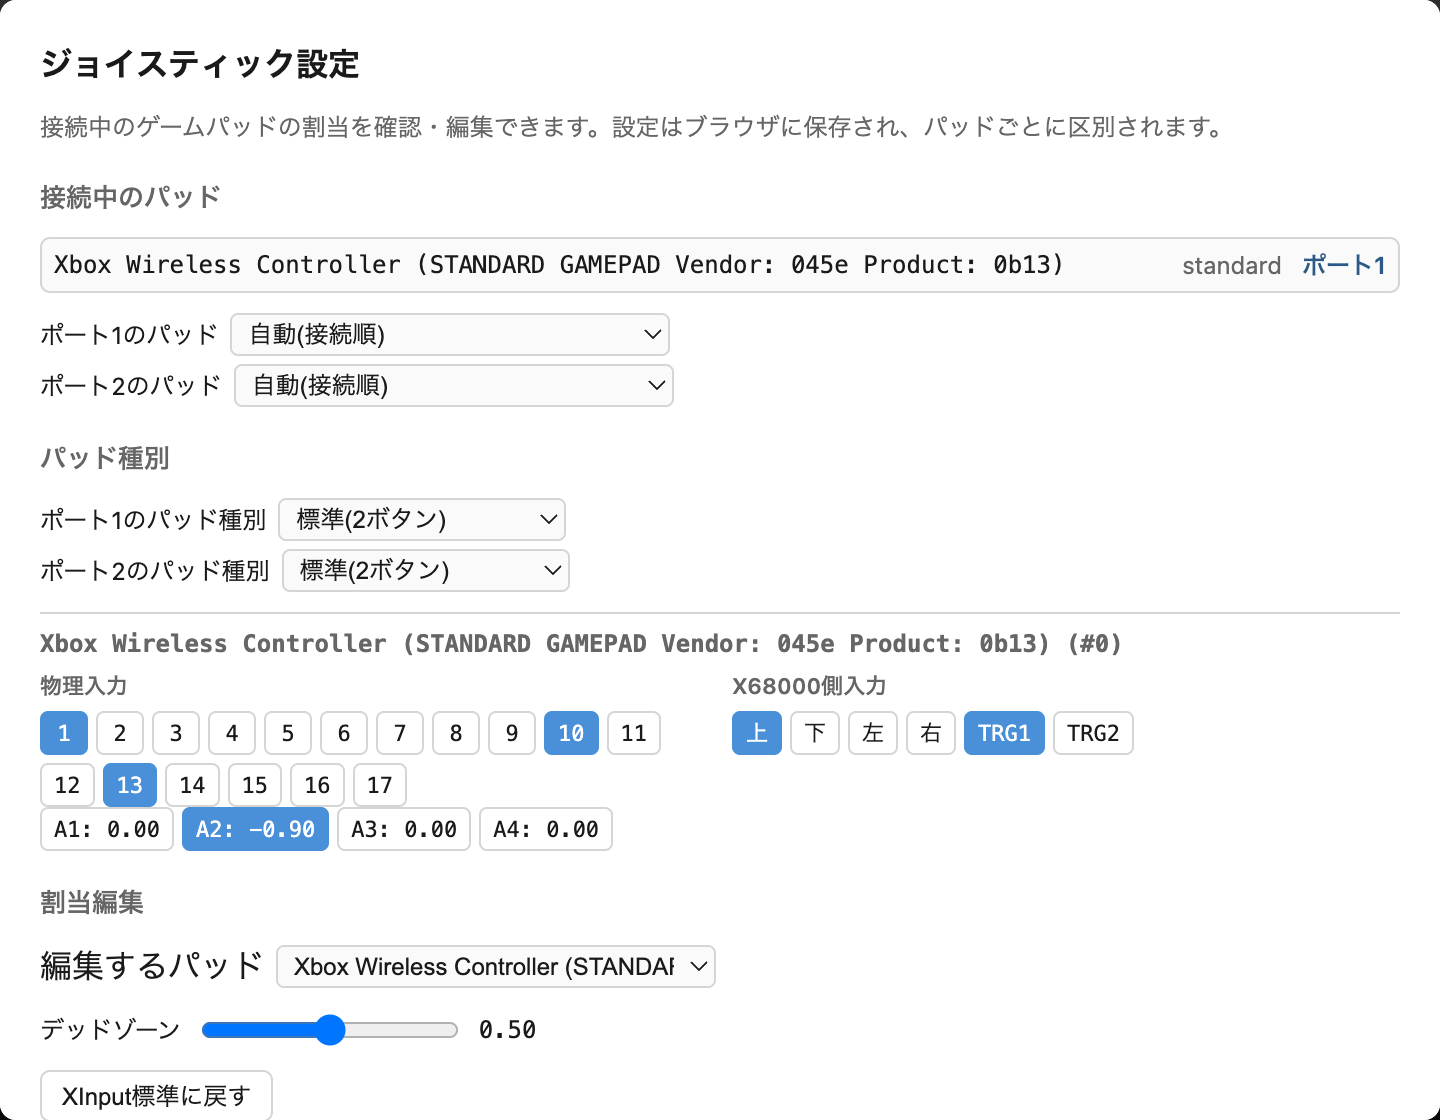
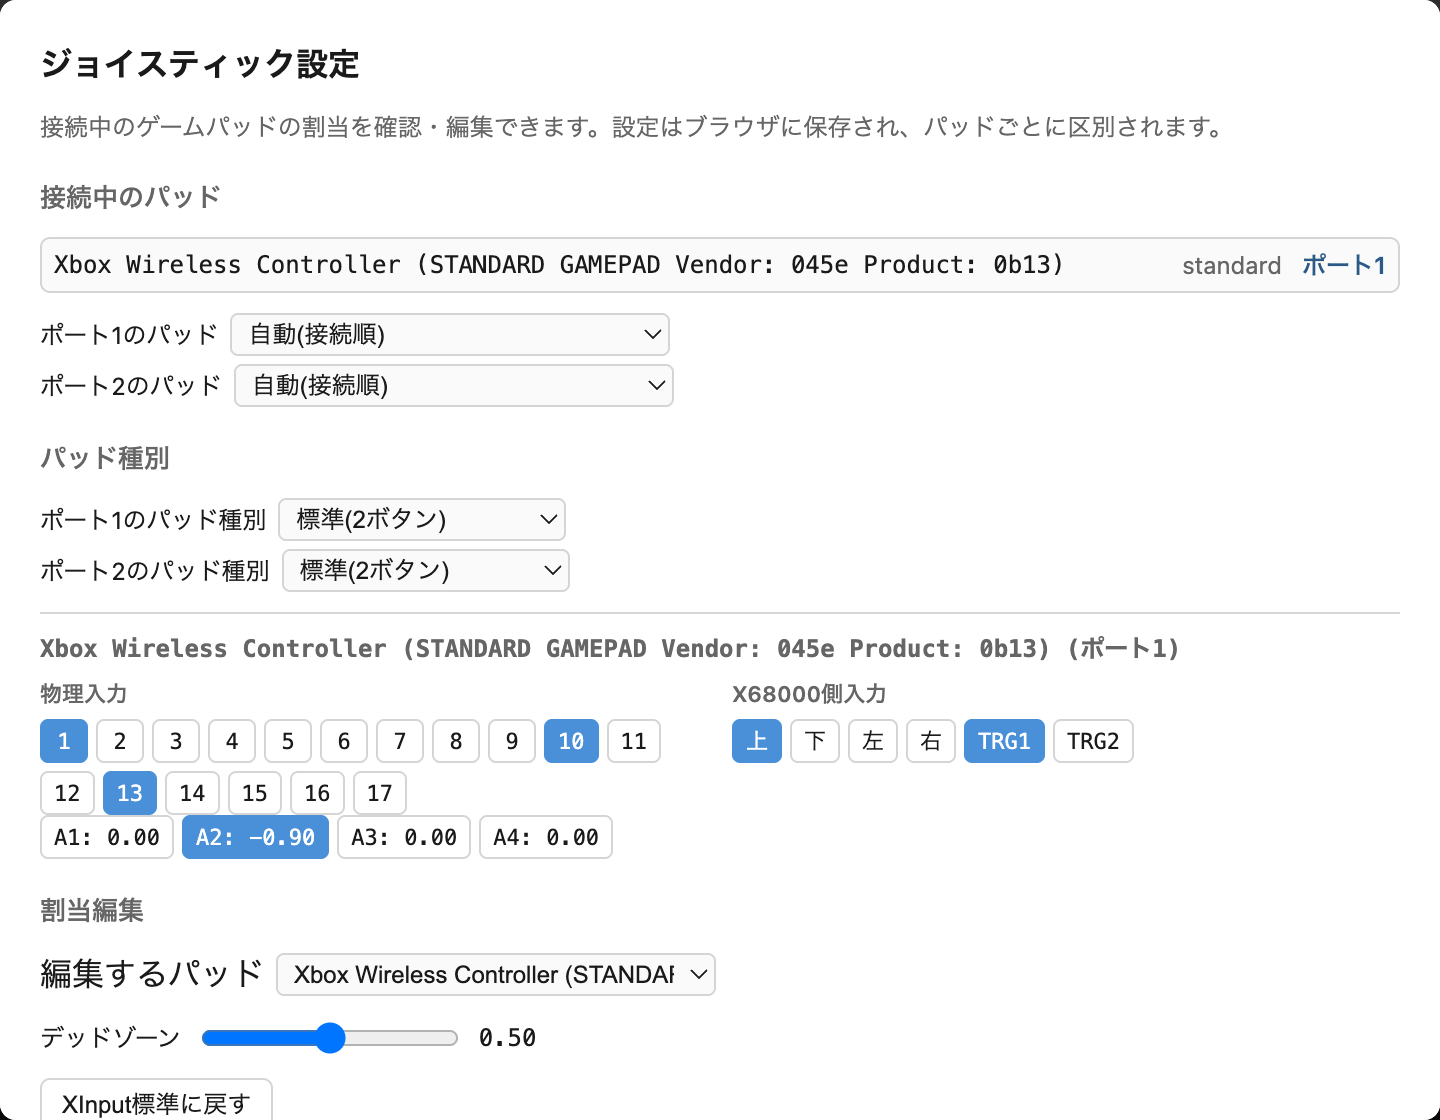
ジョイスティック設定: ライブ表示見出しの (#0) 消し残しを削除
パッド一覧の行頭からは以前削除済みだったが、ライブ表示セクションの見出しにだけ
Gamepad API index の生値(0始まり)が (#0) の形で残っていた。見出しはパッド名+
ポート表記(ポート1/2、他箇所と同じ1始まり)に統一し、日英とも strings.ts の
gamepadLiveTitle に切り出す。ヘルプ用スクリーンショット(gamepad.png/gamepad-en.png)も
capture-help-shots.mjs で撮り直した。

Changed region(s): [[0.0312, 0.5625, 0.8125, 1.0]]

diff --git a/src/strings.ts b/src/strings.ts
@@ -197,6 +197,8 @@ interface Dict {
   gamepadPortAssigned(args: { port: number }): string;
   /** 3台目以降など、どちらのポートにも割り当てられていない場合。 */
   gamepadPortUnassigned(): string;
+  /** ライブ表示の各パッド見出し(パッド名+ポート表記)。Gamepad API index(0始まり)の生値は出さない。 */
+  gamepadLiveTitle(args: { name: string; portLabel: string }): string;
   gamepadPhysicalTitle(): string;
   gamepadX68kTitle(): string;
   gamepadTargetUp(): string;
@@ -457,6 +459,7 @@ const STRINGS: Record<Lang, Dict> = {
     gamepadConnectedTitle: () => '接続中のパッド',
     gamepadPortAssigned: ({ port }) => `ポート${port}`,
     gamepadPortUnassigned: () => '未割当',
+    gamepadLiveTitle: ({ name, portLabel }) => `${name} (${portLabel})`,
     gamepadPhysicalTitle: () => '物理入力',
     gamepadX68kTitle: () => 'X68000側入力',
     gamepadTargetUp: () => '上',
@@ -685,6 +688,7 @@ const STRINGS: Record<Lang, Dict> = {
     gamepadConnectedTitle: () => 'Connected Pads',
     gamepadPortAssigned: ({ port }) => `Port ${port}`,
     gamepadPortUnassigned: () => 'Unassigned',
+    gamepadLiveTitle: ({ name, portLabel }) => `${name} (${portLabel})`,
     gamepadPhysicalTitle: () => 'Physical Input',
     gamepadX68kTitle: () => 'X68000 Input',
     gamepadTargetUp: () => 'Up',

diff --git a/src/gamepad-ui.ts b/src/gamepad-ui.ts
@@ -395,7 +395,9 @@ export function buildGamepadDialog(container: HTMLElement, callbacks: GamepadDia
         // 偽パッド(テスト/ヘッドレス検証用)がbuttons/axesの形を崩していても表示だけは壊さない。
         bits = 0;
       }
-      const header = el('h4', { class: 'gp-live-title' }, [`${pad.id} (#${pad.index})`]);
+      const port = callbacks.getPort(pad.index);
+      const portLabel = port === null ? t('gamepadPortUnassigned') : t('gamepadPortAssigned', { port: port + 1 });
+      const header = el('h4', { class: 'gp-live-title' }, [t('gamepadLiveTitle', { name: pad.id, portLabel })]);
       const physical = el('div', { class: 'gp-live-col' }, [
         el('div', { class: 'gp-live-col-title' }, [t('gamepadPhysicalTitle')]),
         renderButtons(pad),
